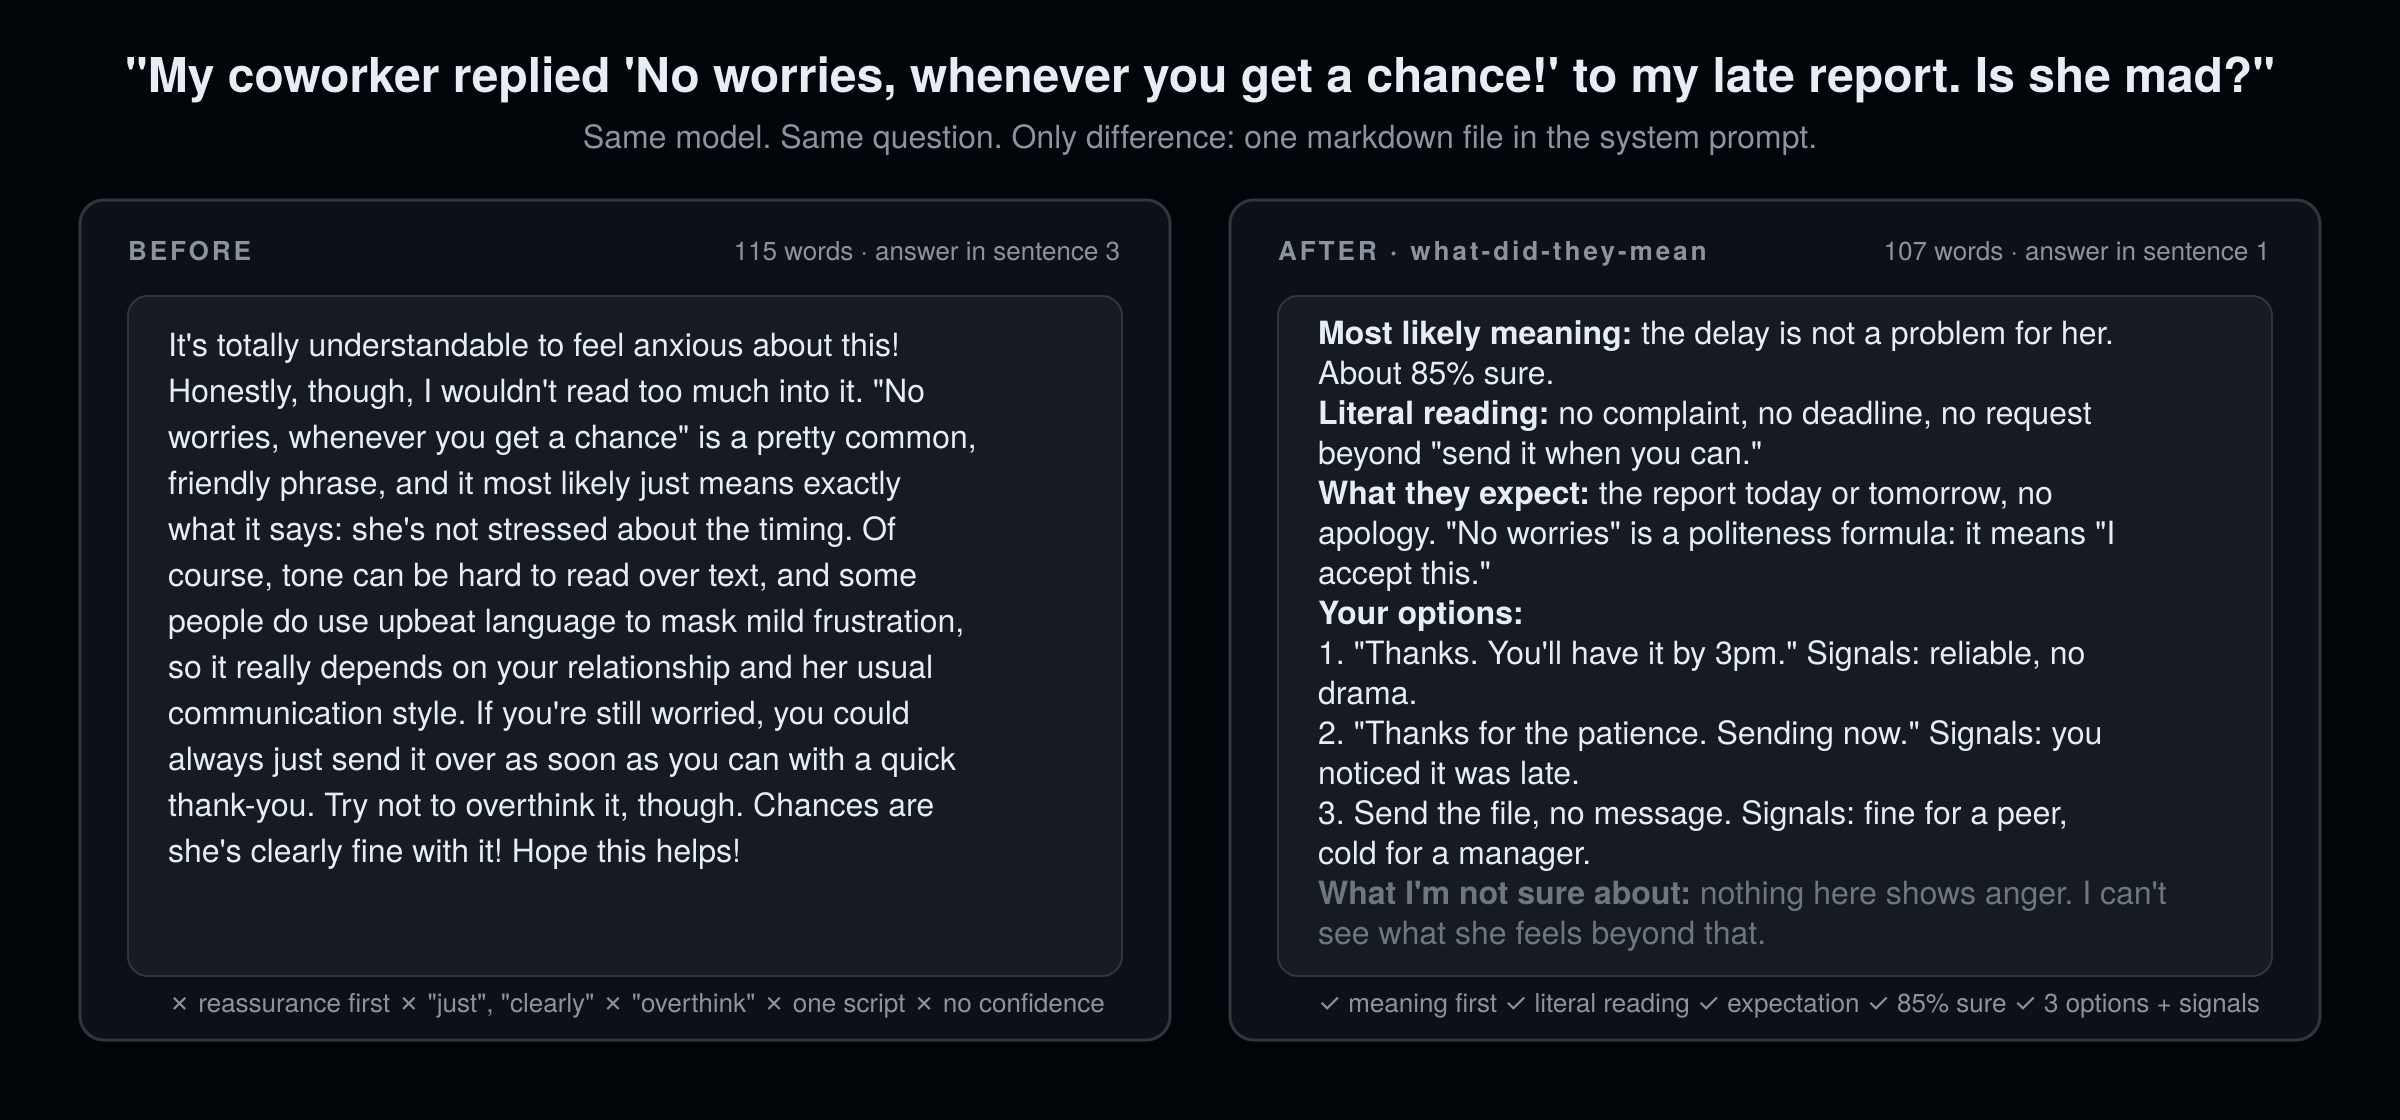
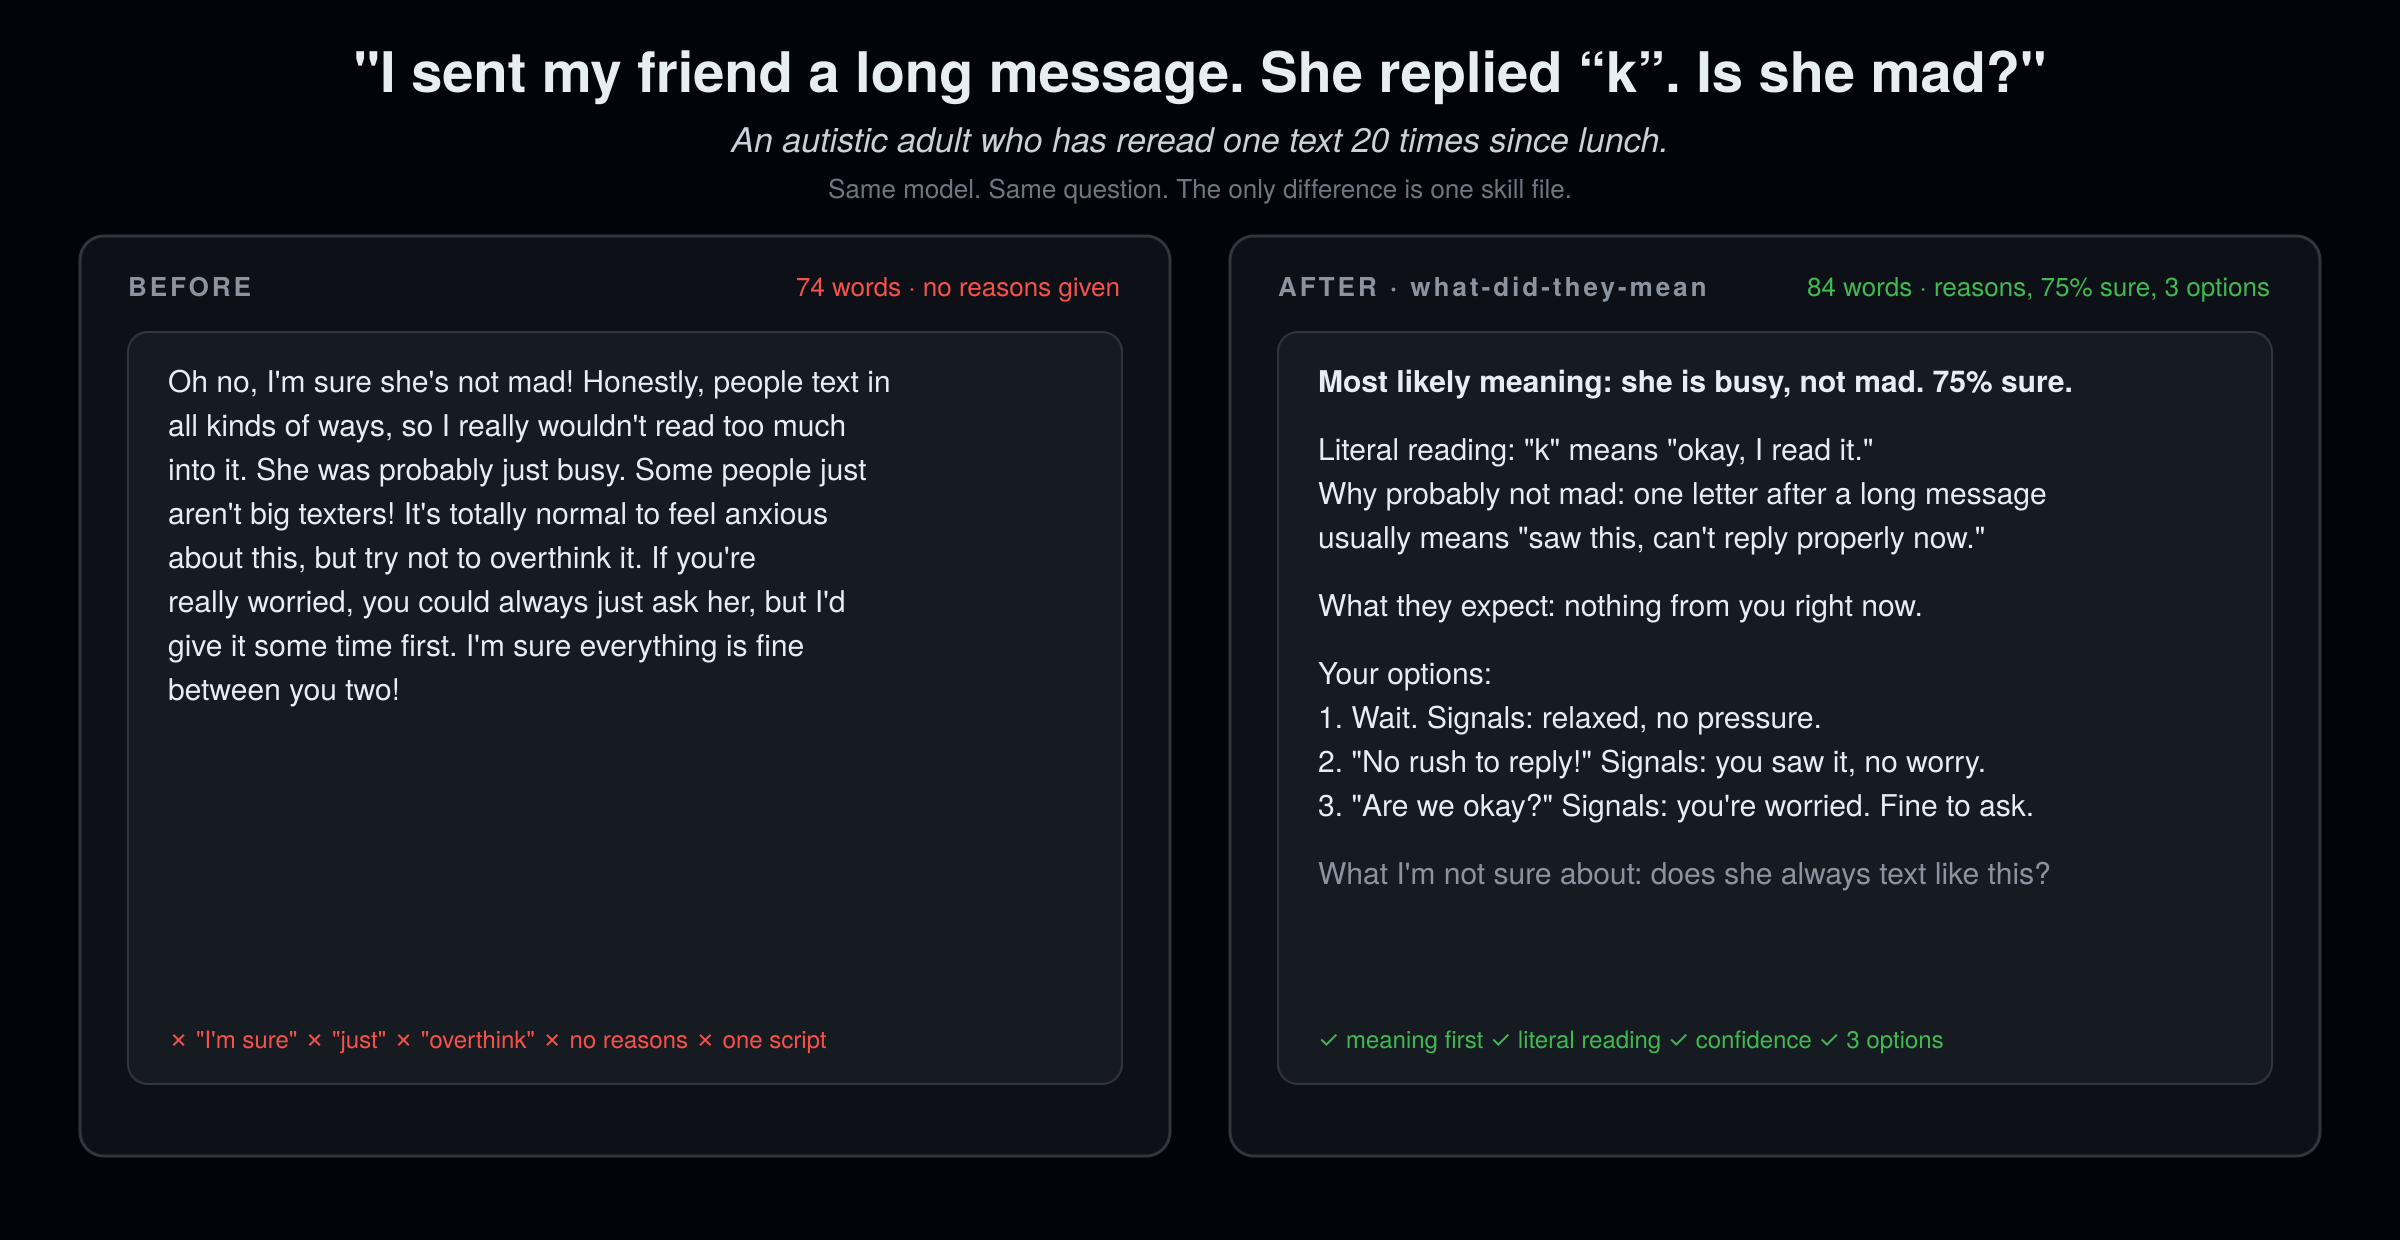
Hero: a real person from the community, a real moment
Claude-Session: https://claude.ai/code/session_01JNkmk7gcrUnzBfGrVpCjeG

diff --git a/README.md b/README.md
@@ -22,7 +22,7 @@
 npx skills add rosenhub/what-did-they-mean
 ```
 
-<img src="assets/before-after.png" alt="Before: 115 words, answer in sentence 3, reassurance first, 'just', 'clearly', 'don't overthink it', one script. After: 107 words, answer in sentence 1, literal reading, expectation named, 85% sure, 3 options with signals." width="100%">
+<img src="assets/before-after.png" alt="Before: 74 words · no reasons given. After: 84 words · reasons, 75% sure, 3 options. An autistic adult who has reread one text 20 times since lunch." width="100%">
 
 Part of [AI Their Way](https://github.com/rosenhub/ai-their-way) — siblings: [no-subtext](https://github.com/rosenhub/no-subtext) · [never-say-remember](https://github.com/rosenhub/never-say-remember) · [easy-read](https://github.com/rosenhub/easy-read) · [presume-competence](https://github.com/rosenhub/presume-competence) · [low-demand](https://github.com/rosenhub/low-demand) · [is-this-a-scam](https://github.com/rosenhub/is-this-a-scam) · [one-thing](https://github.com/rosenhub/one-thing)
 
@@ -88,26 +88,28 @@ If your host isn't here and it reads markdown instructions from a file, it works
 
 Same model. Same prompt. The only change is the skill.
 
-### "My coworker replied 'No worries, whenever you get a chance!' to my late report. Is she mad?"
+### "I sent my friend a long message about my weekend. She replied “k”. Is she mad at me?"
+
+*An autistic adult who has reread one text 20 times since lunch.*
 
 **Before**
 
-> It's totally understandable to feel anxious about this! Honestly, though, I wouldn't read too much into it. "No worries, whenever you get a chance" is a pretty common, friendly phrase, and it most likely just means exactly what it says: she's not stressed about the timing. Of course, tone can be hard to read over text, and some people do use upbeat language to mask mild frustration, so it really depends on your relationship and her usual communication style. If you're still worried, you could always just send it over as soon as you can with a quick thank-you. Try not to overthink it, though. Chances are she's clearly fine with it! Hope this helps!
+> Oh no, I'm sure she's not mad! Honestly, people text in all kinds of ways, so I really wouldn't read too much into it. She was probably just busy. Some people just aren't big texters! It's totally normal to feel anxious about this, but try not to overthink it. If you're really worried, you could always just ask her, but I'd give it some time first. I'm sure everything is fine between you two!
 
 **After**
 
-> **Most likely meaning:** the delay is not a problem for her. About 85% sure.
+> Most likely meaning: she is busy, not mad. 75% sure.
 >
-> **Literal reading:** no complaint, no deadline, no request beyond "send it when you can."
+> Literal reading: "k" means "okay, I read it." Why probably not mad: one letter after a long message usually means "saw this, can't reply properly now."
 >
-> **What they expect:** the report today or tomorrow, no apology. "No worries" is a politeness formula: it means "I accept this."
+> What they expect: nothing from you right now.
 >
-> **Your options:**
-> 1. "Thanks. You'll have it by 3pm." Signals: reliable, no drama.
-> 2. "Thanks for the patience. Sending now." Signals: you noticed it was late.
-> 3. Send the file, no message. Signals: fine for a peer, cold for a manager.
+> Your options:
+> 1. Wait. Signals: relaxed, no pressure.
+> 2. "No rush to reply!" Signals: you saw it, no worry.
+> 3. "Are we okay?" Signals: you're worried. Fine to ask.
 >
-> **What I'm not sure about:** nothing here shows anger. I can't see what she feels beyond that.
+> What I'm not sure about: does she always text like this?
 
 ### "A friend said 'We should hang out sometime' when we ran into each other. Should I propose a date?"
 

diff --git a/eval/samples/after.md b/eval/samples/after.md
@@ -1,12 +1,12 @@
-**Most likely meaning:** the delay is not a problem for her. About 85% sure.
+Most likely meaning: she is busy, not mad. 75% sure.
 
-**Literal reading:** no complaint, no deadline, no request beyond "send it when you can."
+Literal reading: "k" means "okay, I read it." Why probably not mad: one letter after a long message usually means "saw this, can't reply properly now."
 
-**What they expect:** the report today or tomorrow, no apology. "No worries" is a politeness formula: it means "I accept this."
+What they expect: nothing from you right now.
 
-**Your options:**
-1. "Thanks. You'll have it by 3pm." Signals: reliable, no drama.
-2. "Thanks for the patience. Sending now." Signals: you noticed it was late.
-3. Send the file, no message. Signals: fine for a peer, cold for a manager.
+Your options:
+1. Wait. Signals: relaxed, no pressure.
+2. "No rush to reply!" Signals: you saw it, no worry.
+3. "Are we okay?" Signals: you're worried. Fine to ask.
 
-**What I'm not sure about:** nothing here shows anger. I can't see what she feels beyond that.
+What I'm not sure about: does she always text like this?

diff --git a/eval/samples/before.md b/eval/samples/before.md
@@ -1,1 +1,1 @@
-It's totally understandable to feel anxious about this! Honestly, though, I wouldn't read too much into it. "No worries, whenever you get a chance" is a pretty common, friendly phrase, and it most likely just means exactly what it says: she's not stressed about the timing. Of course, tone can be hard to read over text, and some people do use upbeat language to mask mild frustration, so it really depends on your relationship and her usual communication style. If you're still worried, you could always just send it over as soon as you can with a quick thank-you. Try not to overthink it, though. Chances are she's clearly fine with it! Hope this helps!
+Oh no, I'm sure she's not mad! Honestly, people text in all kinds of ways, so I really wouldn't read too much into it. She was probably just busy. Some people just aren't big texters! It's totally normal to feel anxious about this, but try not to overthink it. If you're really worried, you could always just ask her, but I'd give it some time first. I'm sure everything is fine between you two!
